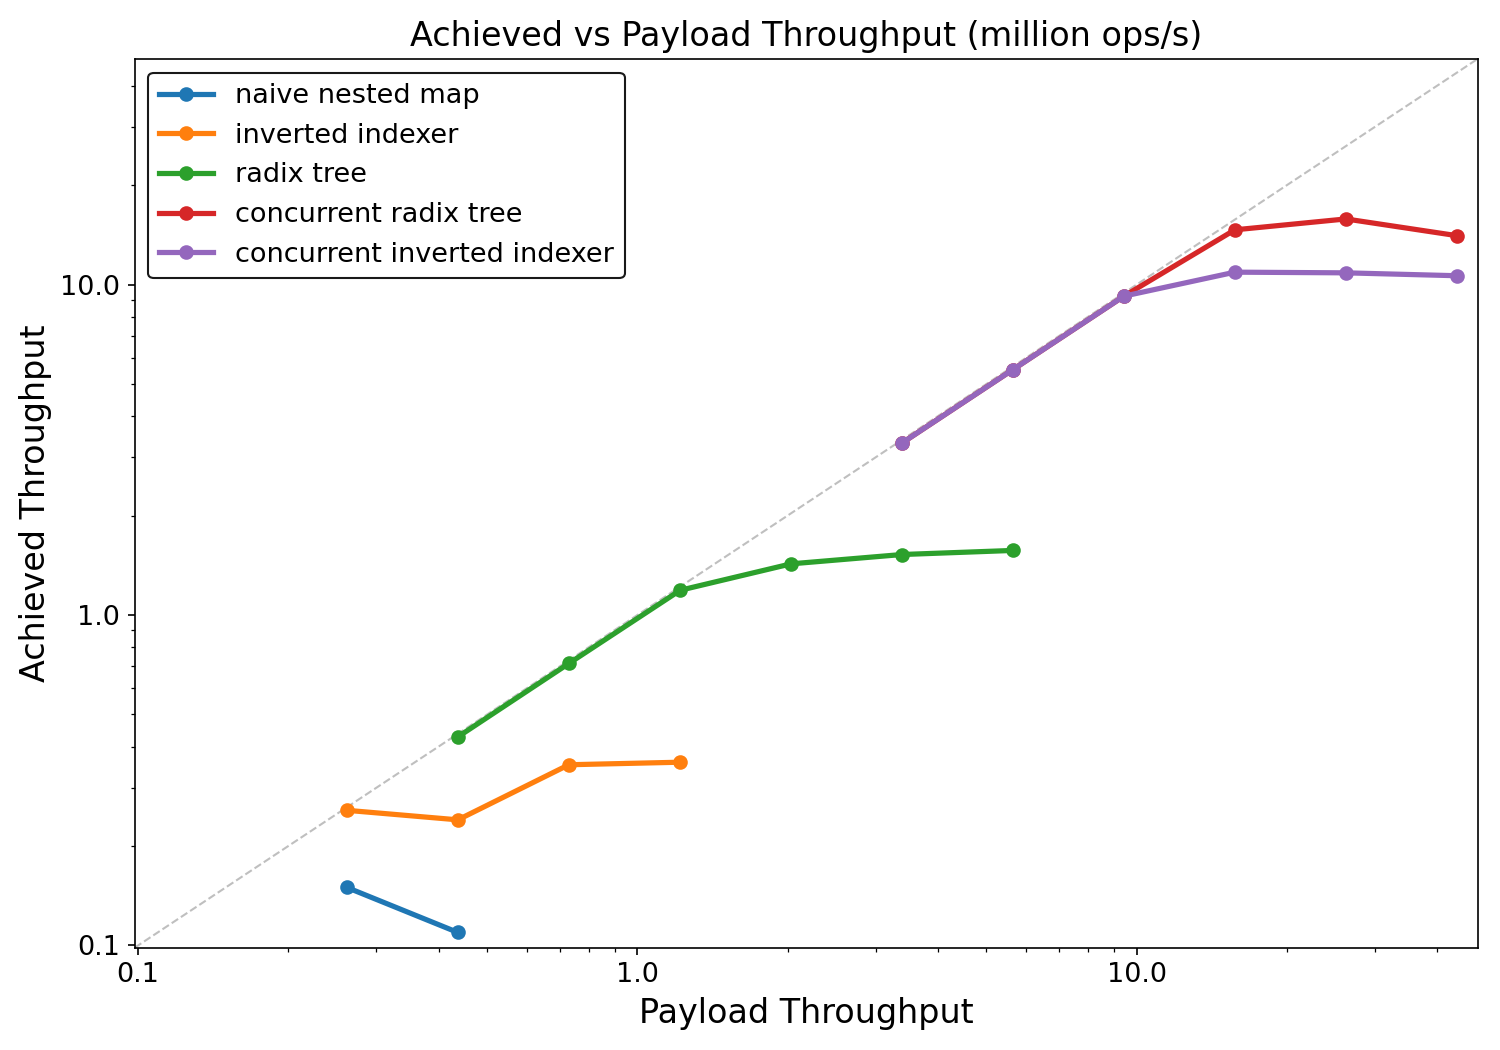
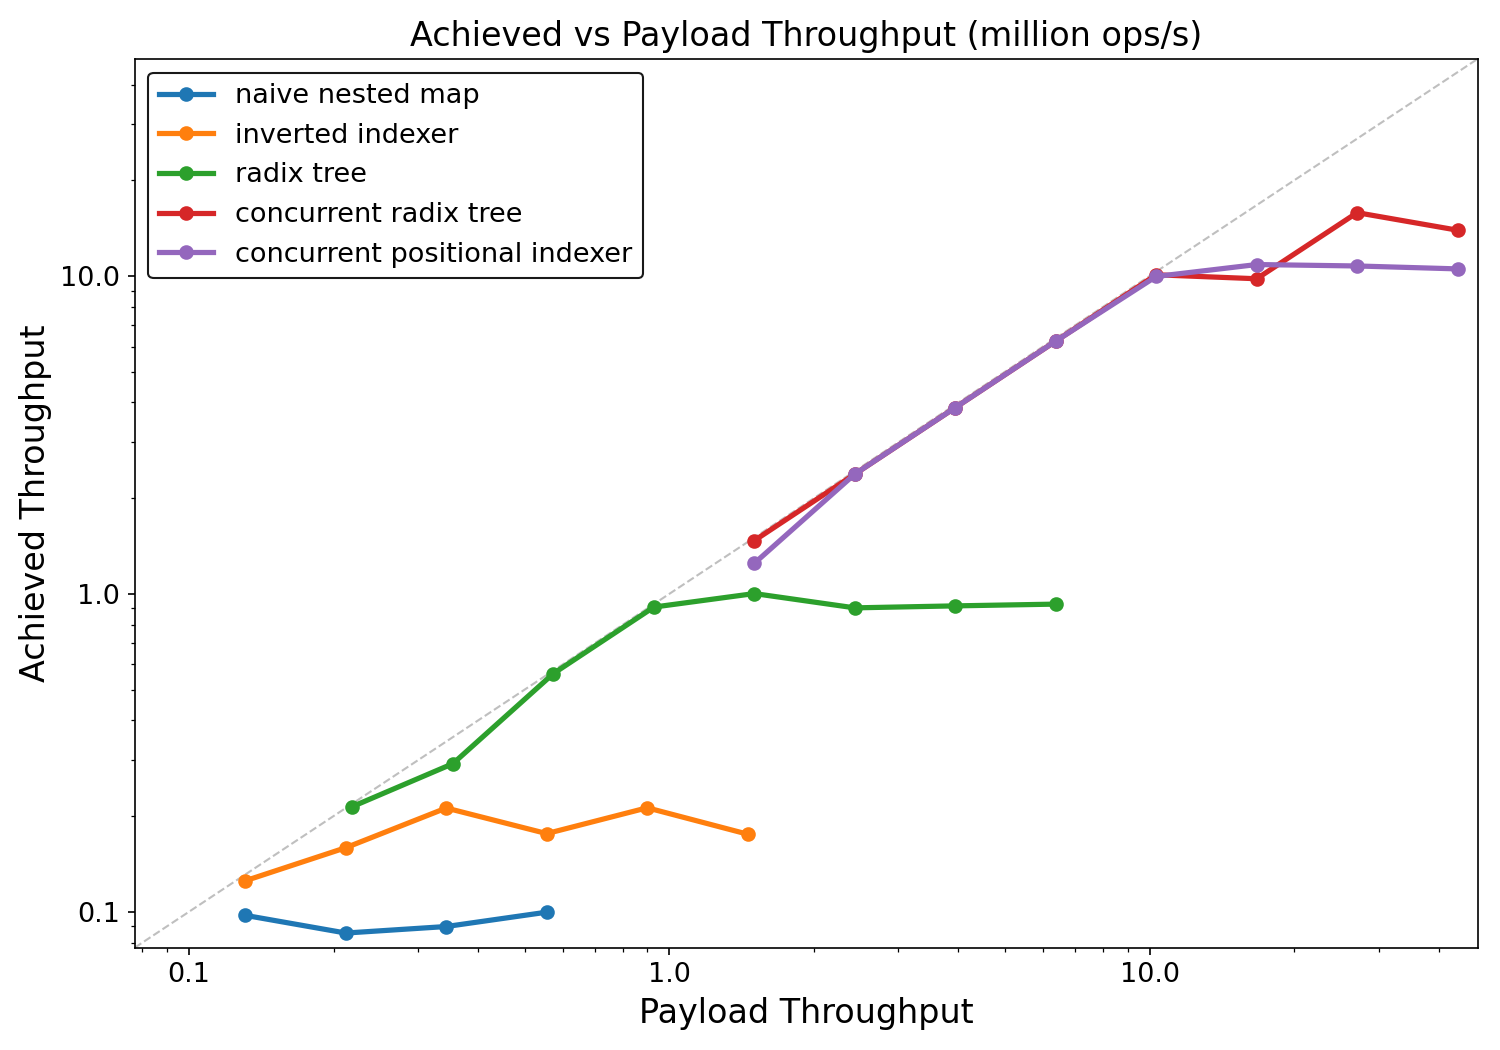
new plots

diff --git a/lib/kv-router/benches/mooncake_bench.rs b/lib/kv-router/benches/mooncake_bench.rs
@@ -1127,16 +1127,15 @@ async fn main() -> anyhow::Result<()> {
                         consecutive_keeping_up = 0;
                     }
                     results.push((dur_ms, result));
-                    if consecutive_keeping_up >= 3 {
-                        println!("Early stop: achieved >= 95% offered for 3 consecutive steps");
+                    if consecutive_keeping_up >= 5 {
+                        println!("Early stop: achieved >= 95% offered for 5 consecutive steps");
                         break;
                     }
                 } else {
-                    let saturated =
-                        result.offered_block_throughput > result.block_throughput * 3.0;
+                    let saturated = result.offered_block_throughput > result.block_throughput * 5.0;
                     results.push((dur_ms, result));
                     if saturated {
-                        println!("Early stop: offered throughput >3x achieved throughput");
+                        println!("Early stop: offered throughput >5x achieved throughput");
                         break;
                     }
                 }

diff --git a/blog/plot_sweep.py b/blog/plot_sweep.py
@@ -29,7 +29,7 @@ DISPLAY_NAMES = {
     "inverted-index": "inverted indexer",
     "radix-tree": "radix tree",
     "concurrent-radix-tree": "concurrent radix tree",
-    "nested-map": "concurrent inverted indexer",
+    "nested-map": "concurrent positional indexer",
 }
 
 

diff --git a/blog/flash_indexer.md b/blog/flash_indexer.md
@@ -374,7 +374,7 @@ The `RwLock` itself embodies this tension. A reader-biased lock can starve write
 
 The concurrent radix tree is already fast---it eliminated the actor bottleneck and handles millions of ops per second. But its traversal cost scales linearly with sequence depth: `find_matches` walks the tree node by node, following pointers from parent to child. Each step is a pointer dereference into a different heap allocation---cache-hostile, and fundamentally sequential. You can't skip ahead to position 128 without first visiting positions 0 through 127.
 
-For today's workloads with moderate sequence lengths, this is fine. But as context windows grow into the hundreds of thousands of tokens and sequences span thousands of blocks, the linear pointer-chasing cost starts to matter. The concurrent inverted indexer is an alternative design that trades the tree's structural elegance for random-access lookups, targeting these longer-sequence workloads.
+For today's workloads with moderate sequence lengths, this is fine. But as context windows grow into the hundreds of thousands of tokens and sequences span thousands of blocks, the linear pointer-chasing cost starts to matter. The concurrent positional indexer is an alternative design that trades the tree's structural elegance for random-access lookups, targeting these longer-sequence workloads.
 
 ### Position as a First-Class Dimension
 
@@ -463,7 +463,7 @@ while current_pos < len - 1 && !active.is_empty() {
 }
 ```
 
-In the best case (all workers share the full prefix), `find_matches` does `D / J` lookups instead of `D`. In the worst case (workers drop at every jump), it degrades to a linear scan with extra overhead from overshooting, since each failed jump wastes a probe before scanning back. The tradeoff is clear: the concurrent inverted indexer wins on long sequences with high prefix sharing where jumps skip most of the depth, while the radix tree wins on short or highly-divergent sequences where the linear walk is cheap and the jump machinery adds overhead.
+In the best case (all workers share the full prefix), `find_matches` does `D / J` lookups instead of `D`. In the worst case (workers drop at every jump), it degrades to a linear scan with extra overhead from overshooting, since each failed jump wastes a probe before scanning back. The tradeoff is clear: the concurrent positional indexer wins on long sequences with high prefix sharing where jumps skip most of the depth, while the radix tree wins on short or highly-divergent sequences where the linear walk is cheap and the jump machinery adds overhead.
 
 ### Lazy Hash Computation
 
@@ -487,7 +487,7 @@ All benchmarks run on a 32-core machine. The benchmark works in two phases:
 
 2. **Benchmark replay.** Each worker's request trace and event trace are merged into a single time-ordered sequence and rescaled to fit the benchmark duration. Workers are spawned as 24 concurrent event-processing threads, each replaying its merged trace at the original inter-entry timing. Every `find_matches` call is timed (via `minstant` for nanosecond-precision monotonic timestamps), and every KV event is applied to the indexer under test. After all workers finish, the event queue is flushed.
 
-The harness supports all five indexer backends from sections 1--6 (`NaiveNestedMap`, `InvertedIndex`, `RadixTree`, `ConcurrentRadixTree`, `ConcurrentInvertedIndexer`) and allows tuning worker count, trace duplication/length factors, jump size, and event worker threads from the CLI. The naive backends (sections 2 and 3) silently ignore Remove events and their throughput is computed from requests only, since they do no meaningful work on events.
+The harness supports all five indexer backends from sections 1--6 (`NaiveNestedMap`, `InvertedIndex`, `RadixTree`, `ConcurrentRadixTree`, `ConcurrentPositionalIndexer`) and allows tuning worker count, trace duplication/length factors, jump size, and event worker threads from the CLI. The naive backends (sections 2 and 3) silently ignore Remove events and their throughput is computed from requests only, since they do no meaningful work on events.
 
 ### What We Measure
 
@@ -501,7 +501,7 @@ Below the threshold, the indexer is invisible: the real bottlenecks are network,
 
 ![Achieved vs Payload Throughput](sweep_plot.png)
 
-The naive nested map and inverted indexer quickly fall off the diagonal and are unable to keep up before the 1 million ops/s mark---single-threaded access to a global data structure simply can't absorb the event and request rates at scale. The radix tree (also single-threaded) holds on longer, sustaining throughput into the low millions before saturating. The concurrent radix tree and concurrent inverted indexer, both leveraging multi-threaded reads with sticky-routed writes, comfortably track the identity line all the way to the 10 million ops/s range before the curve begins to peel off.
+The naive nested map and inverted indexer quickly fall off the diagonal and are unable to keep up before the 1 million ops/s mark---single-threaded access to a global data structure simply can't absorb the event and request rates at scale. The radix tree (also single-threaded) holds on longer, sustaining throughput into the low millions before saturating. The concurrent radix tree and concurrent positional indexer, both leveraging multi-threaded reads with sticky-routed writes, comfortably track the identity line all the way to the 10 million ops/s range before the curve begins to peel off.
 
 ---
 
@@ -509,7 +509,7 @@ The naive nested map and inverted indexer quickly fall off the diagonal and are 
 
 The Flash Indexer is already far from being the bottleneck---even a single instance comfortably handles the event and request rates of large deployments. But we're always looking ahead to a future where thousands of frontends serve billions of workers, and these optimizations would start to matter:
 
-1. **Binary search within jumps.** The concurrent inverted indexer's flat structure supports random access by position, which means we can replace the linear scan-back after a failed jump with a binary search over the skipped range. This would tighten the worst case from `O(J)` per failed jump to `O(log J)`.
+1. **Binary search within jumps.** The concurrent positional indexer's flat structure supports random access by position, which means we can replace the linear scan-back after a failed jump with a binary search over the skipped range. This would tighten the worst case from `O(J)` per failed jump to `O(log J)`.
 
 2. **Hierarchical routing.** A sparse indexer at the top level that tracks coarse-grained prefix coverage across groups of deployments, with full indexers at the bottom each serving a subset. Queries hit the sparse layer first to narrow down which group to probe, avoiding a broadcast to every indexer.
 
@@ -528,7 +528,7 @@ The journey from a Python dictionary to the Flash Indexer spans six iterations, 
 3. **Inverted index** --- O(D + W) per query by flipping the key structure; secondary seq_hash layer for chunk-hash collision safety.
 4. **Radix tree** --- tree structure replaces giant flat map; per-node children maps stay small; dual-key design (local hash for traversal, seq hash for event processing); `Rc<RefCell<>>` for single-threaded shared ownership.
 5. **Concurrent radix tree** --- `Arc<parking_lot::RwLock<>>` replaces `Rc<RefCell<>>`; `DashMap` with per-worker inner `RwLock` for the lookup table (shard-level locking for rare mutations, cheap shared reads on the hot path); reads bypass the actor entirely; sticky routing serializes writes per worker with zero contention.
-6. **Concurrent inverted indexer with jump search** --- an alternative to the radix tree for long-sequence workloads; `Vec<DashMap<>>` indexed by position replaces pointer chasing with O(1) random access, enabling jump search that skips most of the depth; `DashMap` with per-worker inner `RwLock` for the reverse lookup; hot prefix positions cluster at the front of the `Vec` and stay warm in cache.
+6. **Concurrent positional indexer with jump search** --- an alternative to the radix tree for long-sequence workloads; `Vec<DashMap<>>` indexed by position replaces pointer chasing with O(1) random access, enabling jump search that skips most of the depth; `DashMap` with per-worker inner `RwLock` for the reverse lookup; hot prefix positions cluster at the front of the `Vec` and stay warm in cache.
 
 The result: a sustained ops throughput of over **10 million operations per second**---events and requests combined---with achieved throughput tracking offered throughput all the way to the limit.
 
